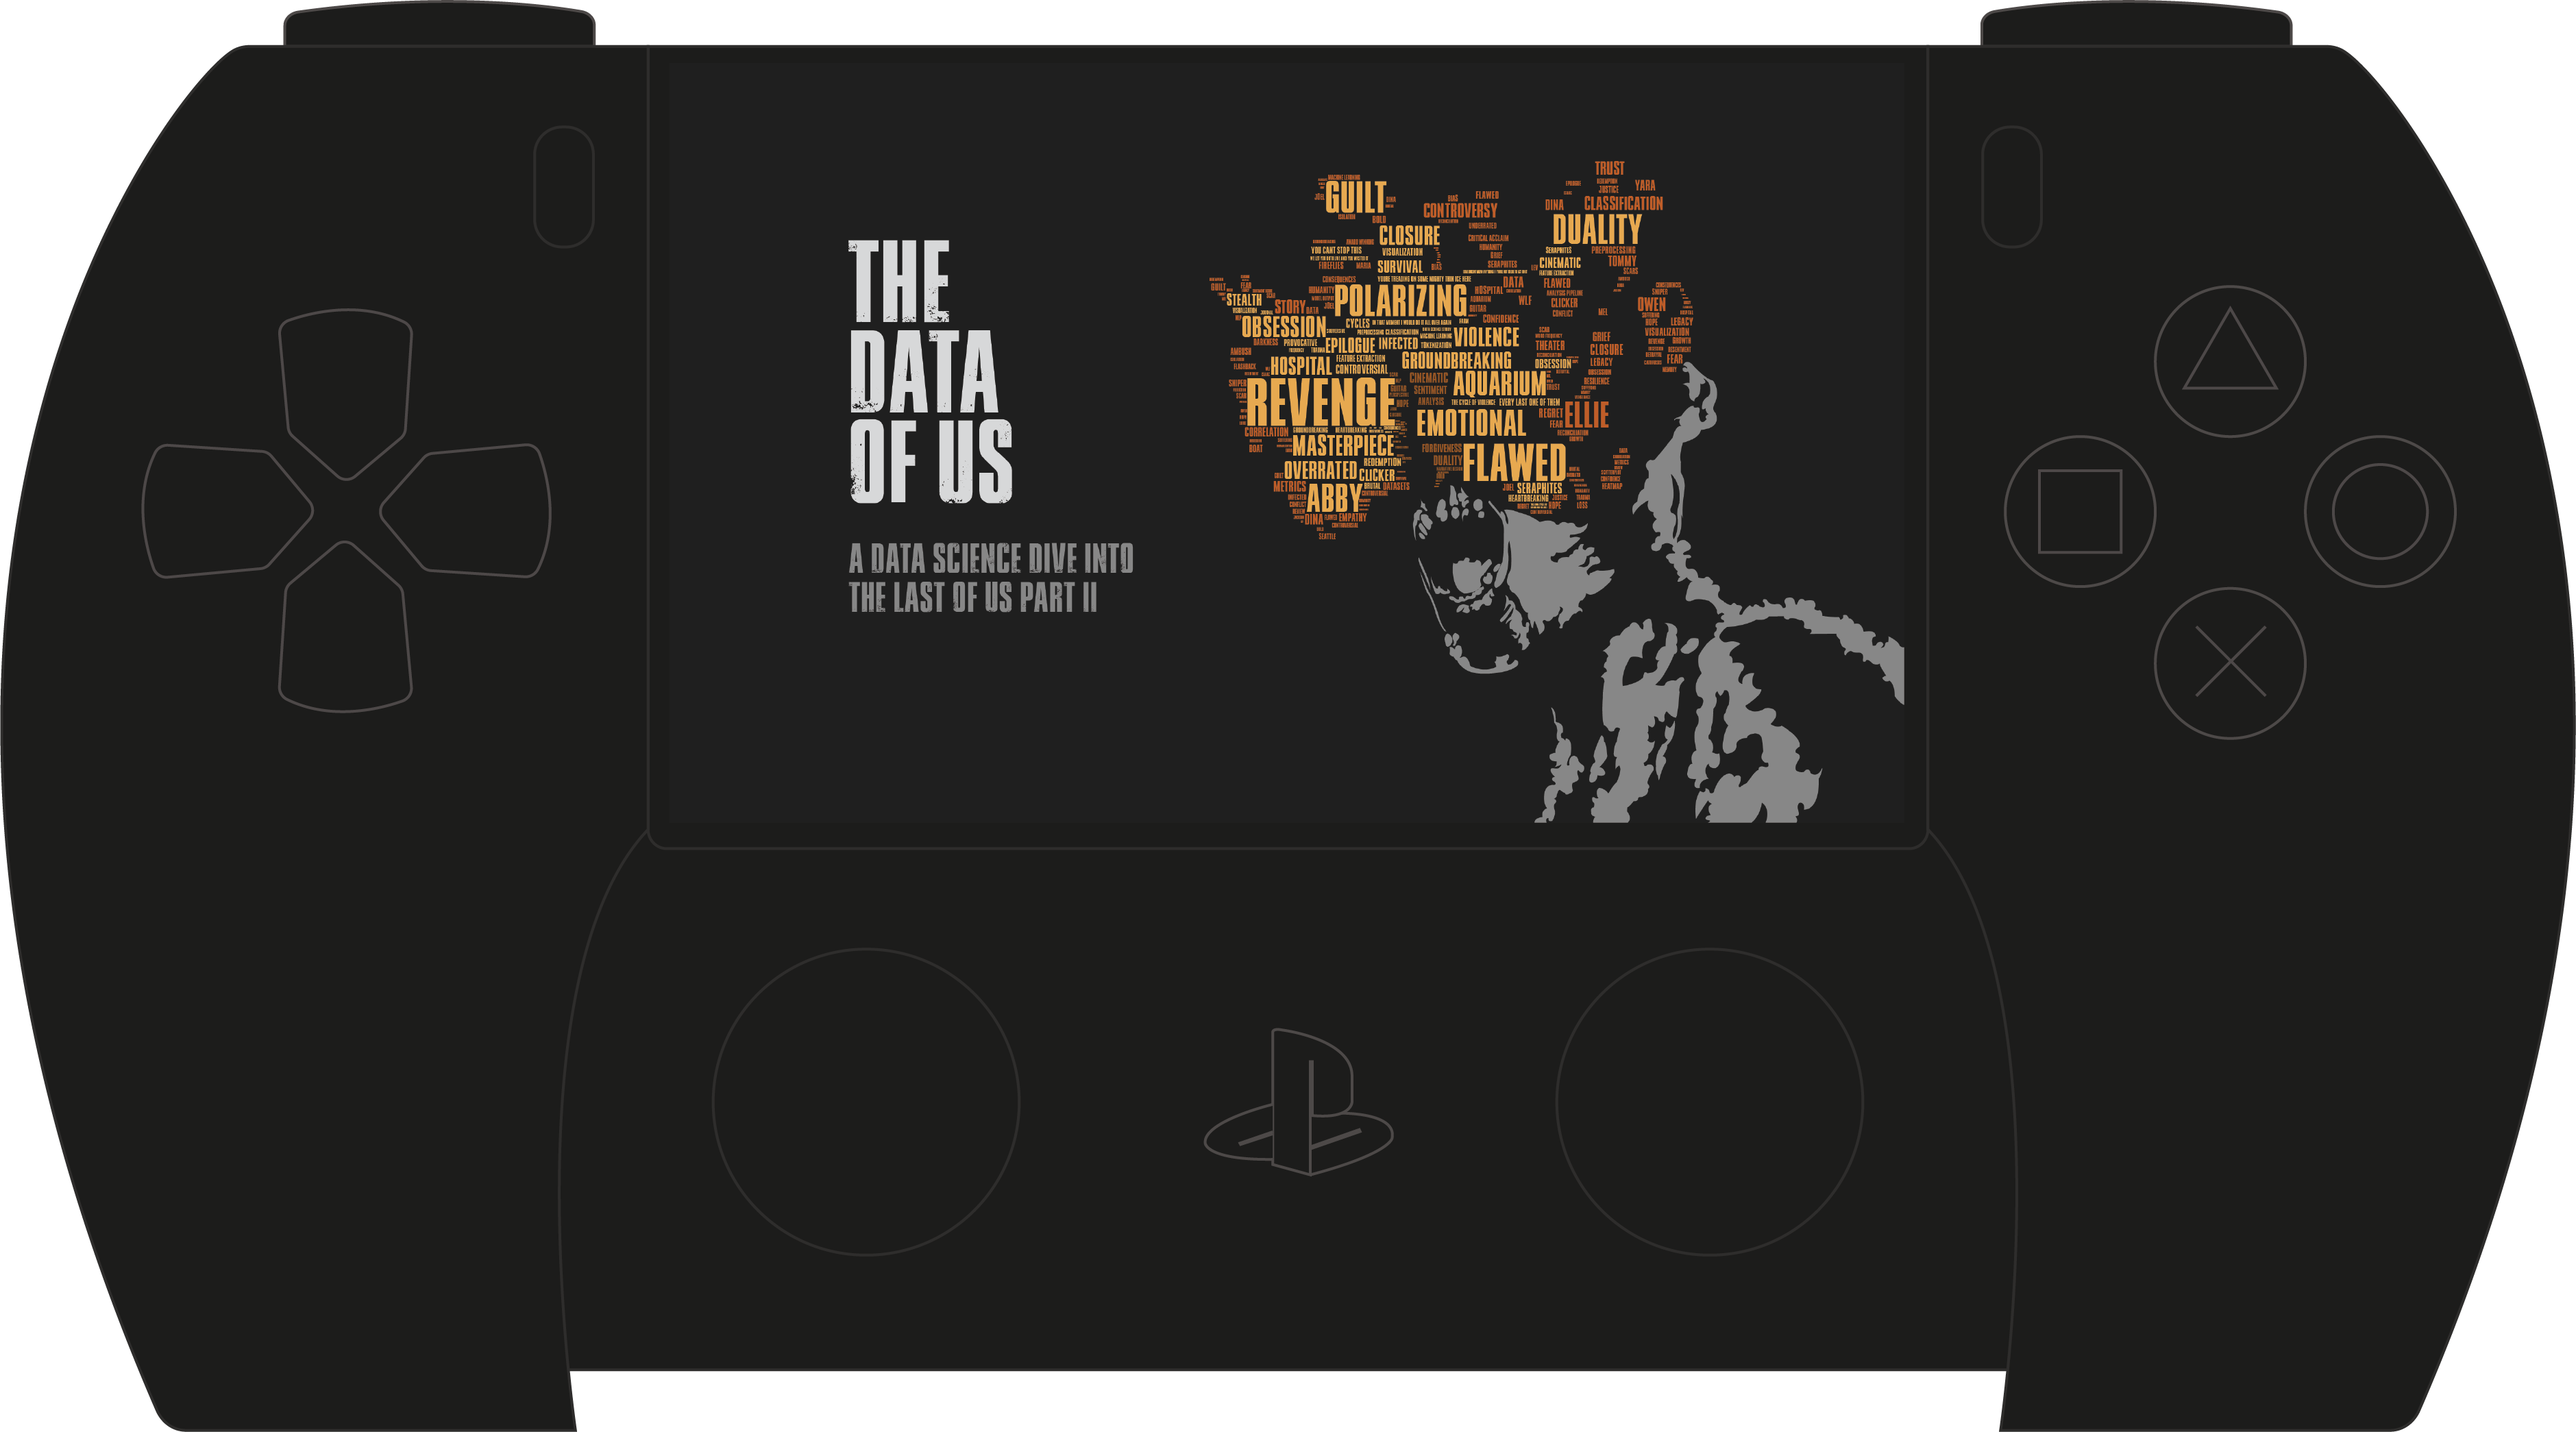
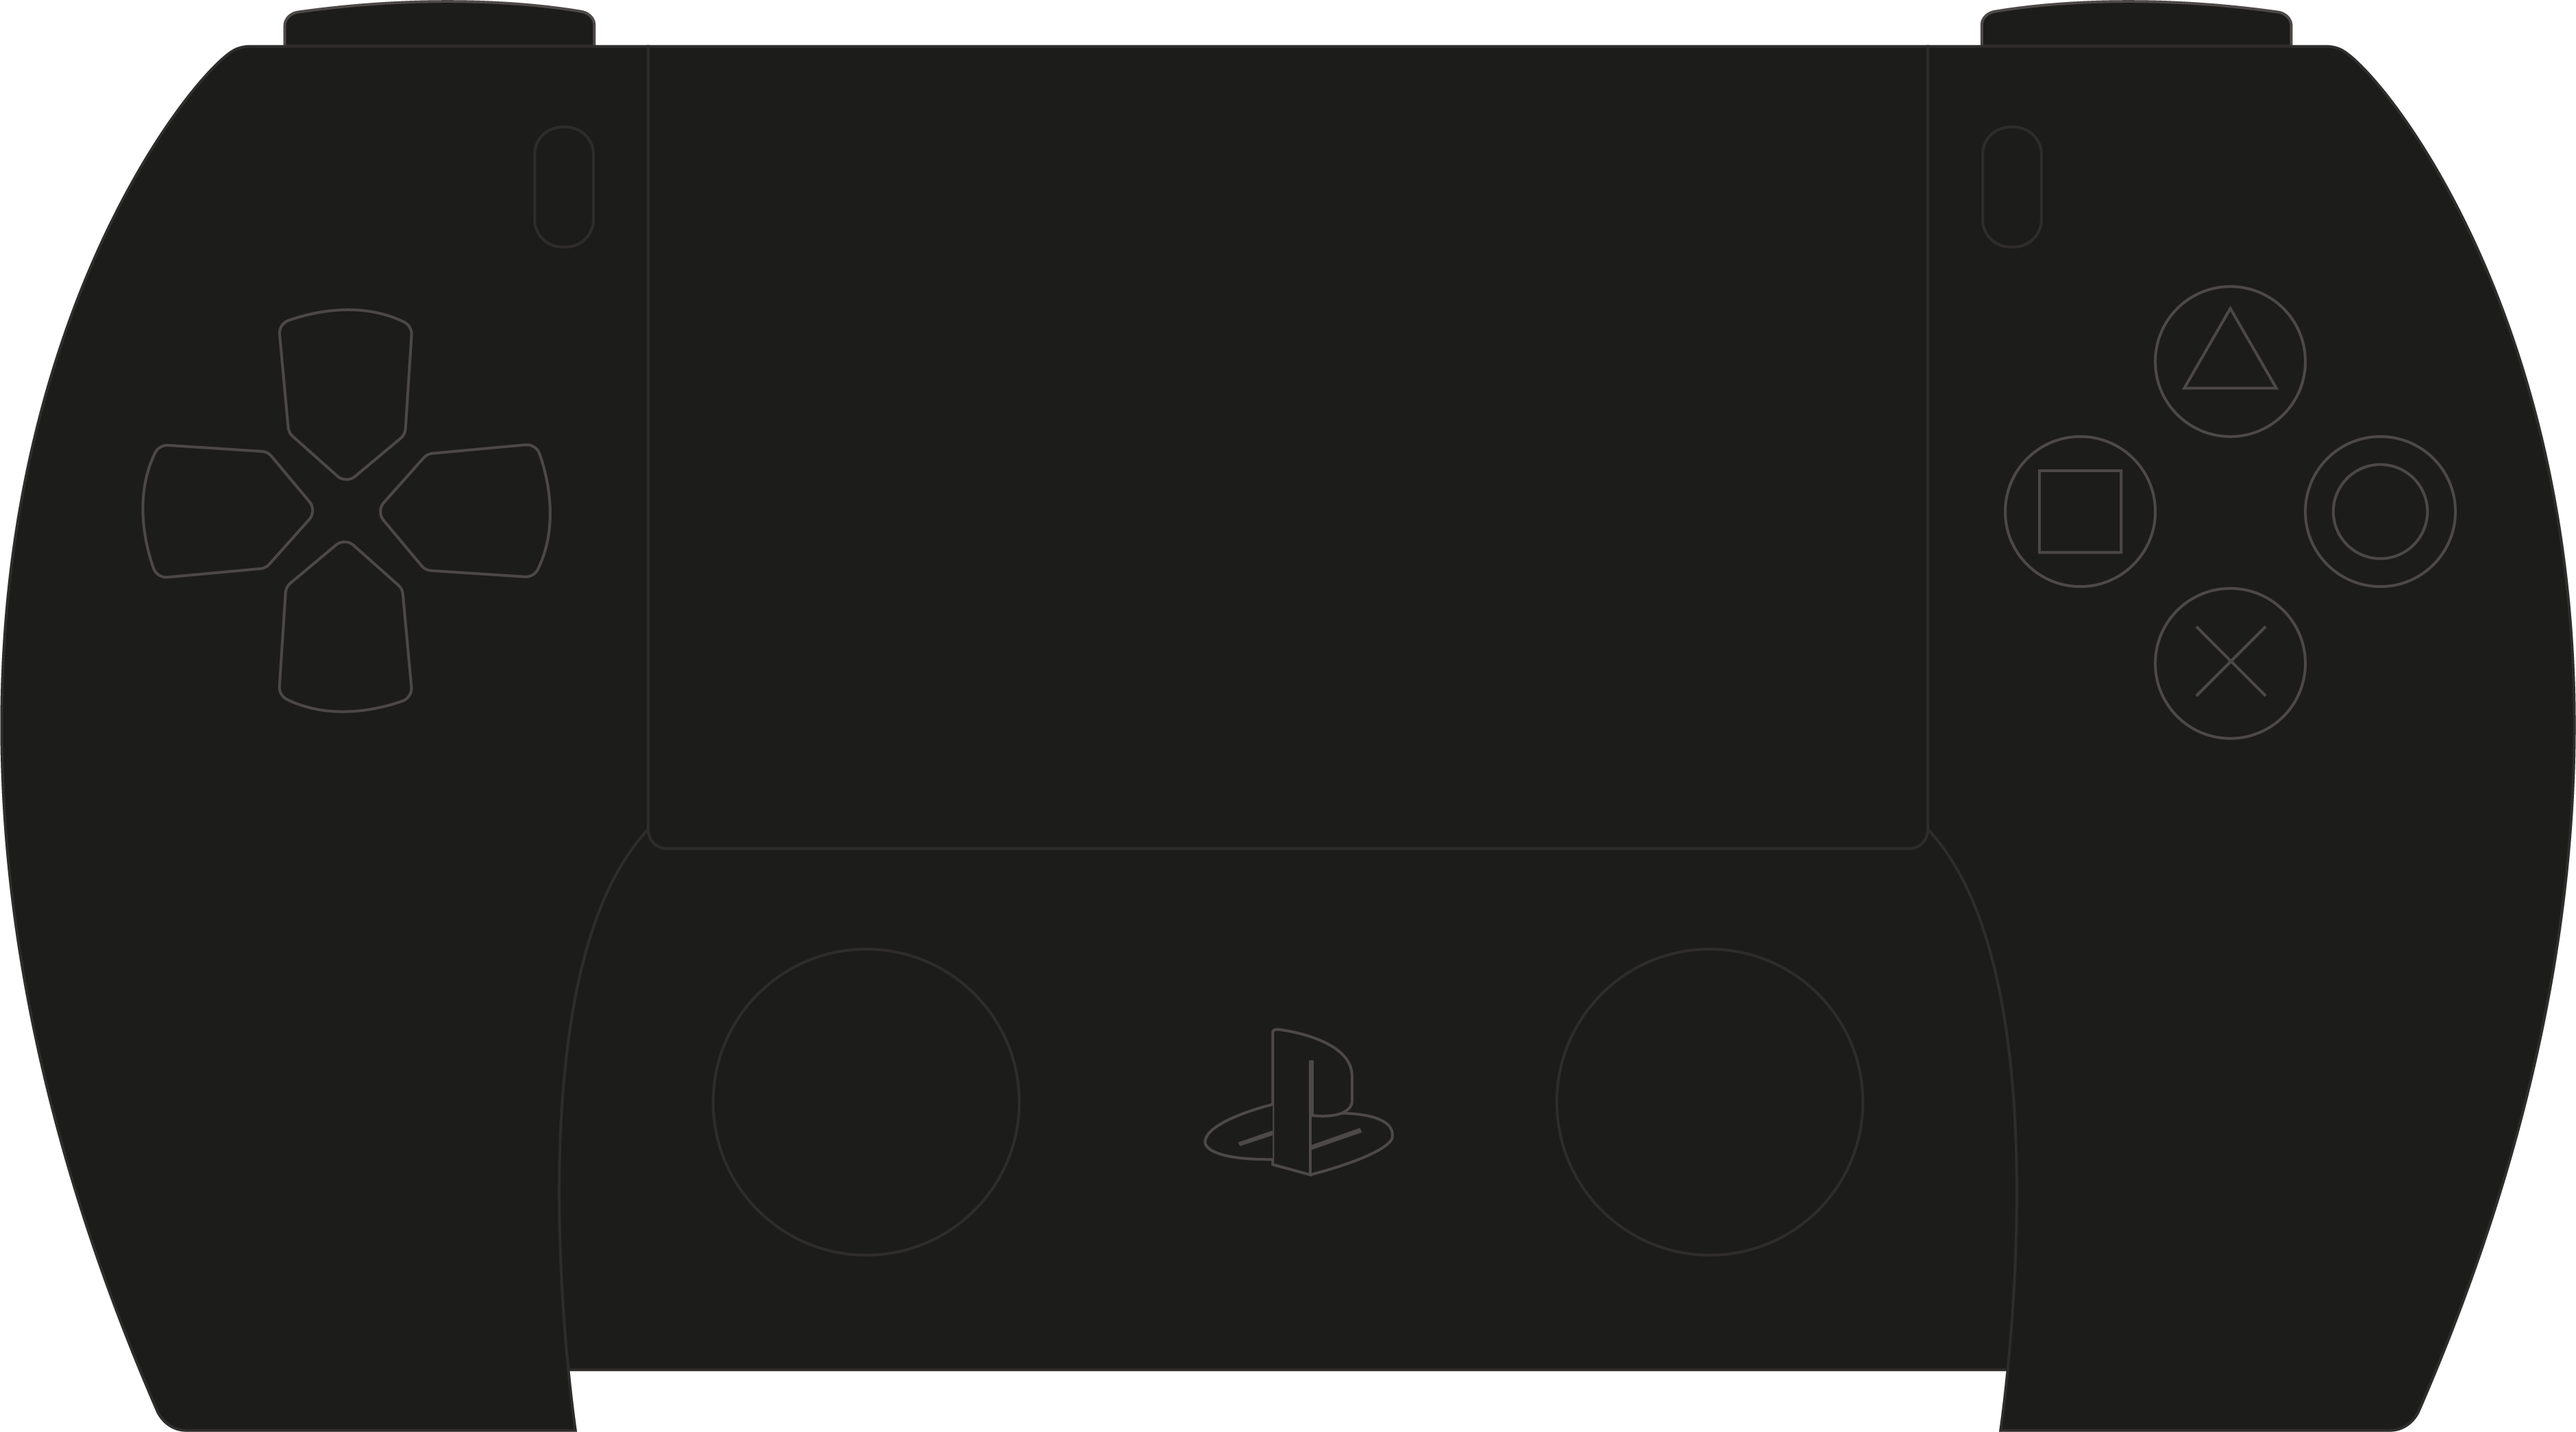
data of us hero changed
Matches the other mobile styles now

Changed region(s): [[0.4669, 0.1244, 0.6848, 0.4665], [0.3113, 0.1555, 0.4358, 0.4354], [0.5914, 0.4043, 0.747, 0.5909]]

diff --git a/stylesheets/dataofus.css b/stylesheets/dataofus.css
@@ -36,6 +36,16 @@
     opacity: 0.8;
 }
 
+.opening .dataofus-image {
+    position: absolute;
+    bottom: 69%;
+    left: 16%;
+    transform: translate(50%, 50%);
+    opacity: 0.9;
+    width: 34%;
+    height: auto;
+}
+
 .content {
     width: 70%;
     padding-bottom: 20px;
@@ -372,8 +382,23 @@ code {
 
 @media only screen and (max-width: 918px) {
     .project-container {
-        width: 100%;
+        width: 98%;
         height: max-content;
+    }
+
+    .opening .dataofus-image  {
+        display: block;
+        position: relative;
+        top: 0px;
+        left: 0px;
+        transform: translate(0px, 0px);
+
+        width: 98%;
+        height: auto;
+    }
+    
+    .playstation-image {
+        display: none;
     }
     
     .overview-container {

diff --git a/dataofus.html b/dataofus.html
@@ -51,9 +51,10 @@
     <section class="opening" id="artwork">
         <h1>The Data of Us</h1>
         <p class="intro-subheading">Just how good was The Last of Us Part 2? - January 2024</p>
-       
+
         <div class="playstation-container">
             <img src="assets/data of us/background.png" class="playstation-image">
+            <img src="assets/The Data of Us.png" class="dataofus-image">
         </div>
 
         <a href="assets/Just How Good Is The Last of Us Part 2.ipynb" download="Just How Good Is The Last of Us Part 2.ipynb" class="external-link">
